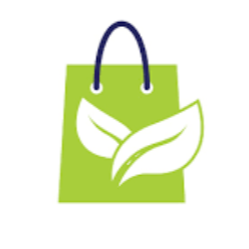
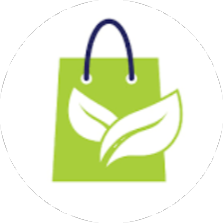
edit

diff --git a/app/lib/widgets/data.dart b/app/lib/widgets/data.dart
@@ -18,8 +18,8 @@ class PlanetInfo {
 
 List<PlanetInfo> planets = [
   PlanetInfo(1,
-      name: 'Medicine',
-      text: 'Donate Medicine',
+      name: 'Community',
+      text: 'Volunteer for social cause',
       iconImage: 'lib/images/earth.png',
       description:
           "Zipping around the sun in only 88 days, Mercury is the closest planet to the sun, and it's also the smallest, only a little bit larger than Earth's moon. Because its so close to the sun (about two-fifths the distance between Earth and the sun), Mercury experiences dramatic changes in its day and night temperatures: Day temperatures can reach a scorching 840  F (450 C), which is hot enough to melt lead. Meanwhile on the night side, temperatures drop to minus 290 F (minus 180 C).",
@@ -30,9 +30,9 @@ List<PlanetInfo> planets = [
         'https://image.shutterstock.com/image-illustration/mercury-high-resolution-images-presents-600w-367615301.jpg'
       ]),
   PlanetInfo(2,
-      name: 'Doctor',
-      text: 'Consultation',
-      iconImage: 'lib/images/doctor_.png',
+      name: 'Shop',
+      text: 'Shop Eco-Friendly products right here',
+      iconImage: 'lib/images/shop.png',
       description:
           "The second planet from the sun, Venus is Earth's twin in size. Radar images beneath its atmosphere reveal that its surface has various mountains and volcanoes. But beyond that, the two planets couldn't be more different. Because of its thick, toxic atmosphere that's made of sulfuric acid clouds, Venus is an extreme example of the greenhouse effect. It's scorching-hot, even hotter than Mercury. The average temperature on Venus' surface is 900 F (465 C). At 92 bar, the pressure at the surface would crush and kill you. And oddly, Venus spins slowly from east to west, the opposite direction of most of the other planets.",
       images: [
@@ -40,9 +40,9 @@ List<PlanetInfo> planets = [
         'https://image.shutterstock.com/image-photo/solar-system-venus-second-planet-600w-515581927.jpg'
       ]),
   PlanetInfo(3,
-      name: 'Search',
-      text: 'Description',
-      iconImage: 'lib/images/search.png',
+      name: 'Classifier',
+      text: 'Segregate between dry & wet waste.',
+      iconImage: 'lib/images/image_classifier.png',
       description:
           "The third planet from the sun, Earth is a waterworld, with two-thirds of the planet covered by ocean. It's the only world known to harbor life. Earth's atmosphere is rich in nitrogen and oxygen. Earth's surface rotates about its axis at 1,532 feet per second (467 meters per second) — slightly more than 1,000 mph (1,600 kph) — at the equator. The planet zips around the sun at more than 18 miles per second (29 km per second).",
       images: [

diff --git a/app/lib/pages/events.dart b/app/lib/pages/events.dart
@@ -32,7 +32,7 @@ class _EventsPageState extends State<EventsPage> {
   }
 
   void fetch() async {
-    url = Uri.parse('http://10.0.2.2:5000/allEvents');
+    url = Uri.parse('http://192.168.137.228:5000/allEvents');
     response = await get(url);
     print(response.body);
     setState(() {
@@ -97,13 +97,13 @@ class _EventsPageState extends State<EventsPage> {
                                       end: Alignment.bottomCenter,
                                       stops: [0.3, 0.7])),
                               child: Padding(
-                                padding: const EdgeInsets.only(left: 0.0),
+                                padding: const EdgeInsets.only(left: 0),
                                 child: Row(
                                   children: [
                                     Column(
                                       children: [
                                         Container(
-                                          height: 320,
+                                          height: 300,
                                           width: 334,
                                           decoration: BoxDecoration(
                                               color: Colors.white24,
@@ -119,14 +119,14 @@ class _EventsPageState extends State<EventsPage> {
                                                     left: 0),
                                                 child: Container(
                                                   margin:
-                                                      EdgeInsets.only(left: 50),
-                                                  width: 260,
-                                                  height: 334,
+                                                      EdgeInsets.only(left: 0),
+                                                  width: 324,
+                                                  height: 500,
                                                   decoration: BoxDecoration(
                                                       image: DecorationImage(
                                                           image: AssetImage(
-                                                              'lib/images/crocin.png'),
-                                                          fit: BoxFit.fitWidth),
+                                                              'lib/images/beach_drive.webp'),
+                                                          fit: BoxFit.fill),
                                                       borderRadius:
                                                           BorderRadius.circular(
                                                               30)),

diff --git a/app/lib/pages/home_page.dart b/app/lib/pages/home_page.dart
@@ -38,13 +38,13 @@ class _HomePageState extends State<HomePage> {
   @override
   Widget build(BuildContext context) {
     return Scaffold(
-      backgroundColor: color.AppColor.gradientEndColor,
+      backgroundColor: Color(0xff9356FB),
       body: Container(
         decoration: BoxDecoration(
             gradient: LinearGradient(
                 colors: [
-                  color.AppColor.gradientStartColor,
-                  color.AppColor.gradientEndColor
+                  Color(0xffD772EA),
+                  Color(0xff9356FB),
                 ],
                 begin: Alignment.topCenter,
                 end: Alignment.bottomCenter,
@@ -147,7 +147,7 @@ class _HomePageState extends State<HomePage> {
                                         planets[index].name,
                                         style: TextStyle(
                                           fontFamily: 'Avenir',
-                                          fontSize: 44,
+                                          fontSize: 35,
                                           color: const Color(0xff47455f),
                                           fontWeight: FontWeight.w900,
                                         ),
@@ -157,7 +157,7 @@ class _HomePageState extends State<HomePage> {
                                         planets[index].text,
                                         style: TextStyle(
                                           fontFamily: 'Avenir',
-                                          fontSize: 23,
+                                          fontSize: 18,
                                           color:
                                               color.AppColor.primaryTextColor,
                                           fontWeight: FontWeight.w500,

diff --git a/app/lib/pages/login_page.dart b/app/lib/pages/login_page.dart
@@ -36,7 +36,7 @@ class _LoginPageState extends State<LoginPage> {
   Future<void> getData() async {
     print(email);
     print(pass);
-    var res = await post(Uri.parse("http://10.0.2.2:5000/loginuser"),
+    var res = await post(Uri.parse("http://192.168.137.228:5000/loginuser"),
         headers: {
           "Content-Type": "application/json",
         },
@@ -67,7 +67,7 @@ class _LoginPageState extends State<LoginPage> {
   //   if (doctors.contains(email)) {
   //     return true;
   //   }
-  //   return false;
+  //   return false
   // }
 
   @override
@@ -113,7 +113,7 @@ class _LoginPageState extends State<LoginPage> {
                   width: 320,
                   decoration: BoxDecoration(
                     borderRadius: BorderRadius.circular(20),
-                    color: Color(0xFFe1f5ea),
+                    color: Color(0xFFf0f0f0).withOpacity(0.8),
                     boxShadow: [
                       BoxShadow(
                         offset: Offset(6, 6),

diff --git a/app/lib/widgets/colors.dart b/app/lib/widgets/colors.dart
@@ -28,6 +28,6 @@ class AppColor {
   static Color titleTextColor = Colors.white;
   static Color contentTextColor = Color(0xff868686);
   static Color navigationColor = Color(0xFF00C9FF);
-  static Color gradientStartColor = Color(0xFFd772ea);
-  static Color gradientEndColor = Color(0xFF00C9FF);
+  static Color gradientStartColor = Color(0xFF47ad5d);
+  static Color gradientEndColor = Color(0xFF349ad8a);
 }

diff --git a/app/lib/main.dart b/app/lib/main.dart
@@ -27,6 +27,6 @@ class MyApp extends StatelessWidget {
         theme: ThemeData(
           primarySwatch: Colors.blue,
         ),
-        home: LoginPage());
+        home: HomePage());
   }
 }
